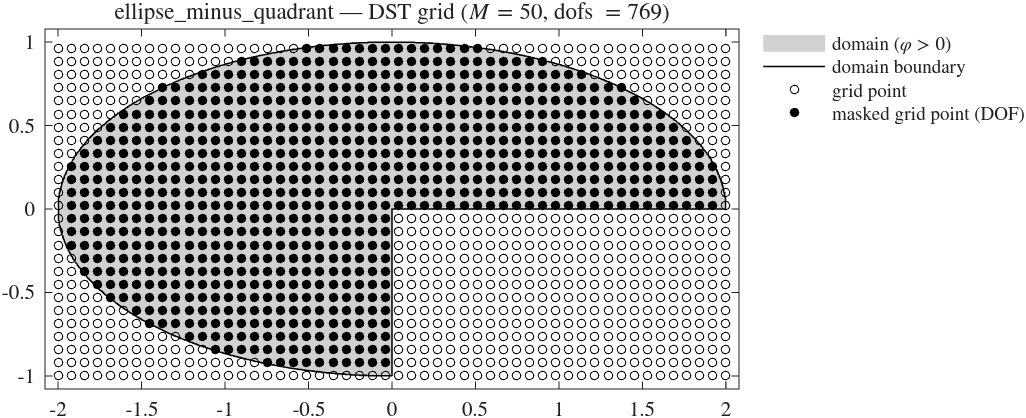
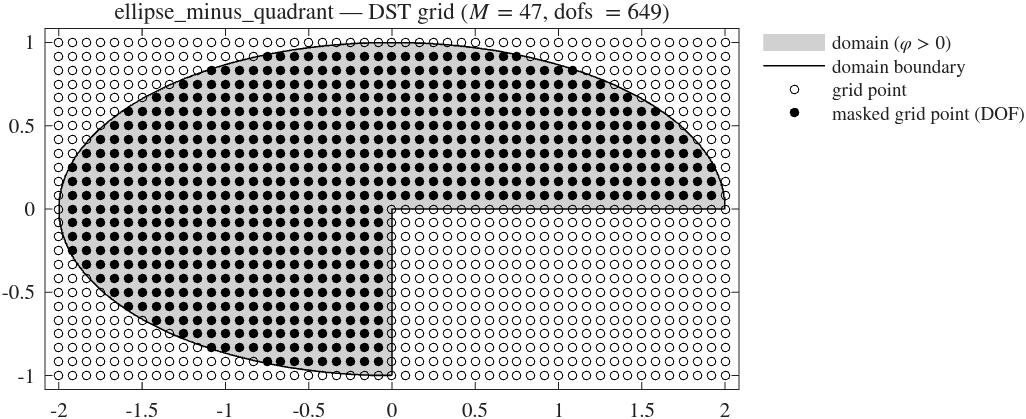
Fix ellipse-minus-quadrant grid alignment (M_full=47, M_partial=199)
The previous M (50/200) left the re-entrant cut edges off the grid: x=0 needs
M+1 even and y=0 needs M+1 divisible by 4. Use M_full=47, M_partial=199 (both
M+1 divisible by 4) so the x=0 and y=0 cuts fall on grid lines, and note the
condition in the catalog. Regenerate the grid figure and refresh the
comparison table from the recomputed DST spectra.

diff --git a/experiments/domain_catalog_dst.m b/experiments/domain_catalog_dst.m
@@ -29,7 +29,7 @@ function cases = domain_catalog_dst(name)
     cases(end+1) = make_case('isosceles_triangle',     [0 pi 0 pi],   @(x, y) indicator_isosceles_triangle(x, y, 0, pi, 0),          50, 200);
     cases(end+1) = make_case('small_rectangle',        [0 pi 0 pi], @(x, y) indicator_rectangle(x, y, 0, pi/2, 0, pi/4),           47, 199);  % M+1 multiple of 4: edges pi/2, pi/4 on grid
     cases(end+1) = make_case('L_shaped',               [-1 1 -1 1], @(x, y) indicator_L_shaped(x, y, -1, 0, 1, -1, 0, 1),          49, 299);  % M+1 even: re-entrant corner at origin on grid
-    cases(end+1) = make_case('ellipse_minus_quadrant', [-2 2 -1 1], @(x, y) indicator_ellipse_minus_quadrant(x, y, -2, 0, 2, 0),   50, 200);
+    cases(end+1) = make_case('ellipse_minus_quadrant', [-2 2 -1 1], @(x, y) indicator_ellipse_minus_quadrant(x, y, -2, 0, 2, 0),   47, 199);  % M+1 divisible by 4: x=0 and y=0 cut edges on grid
     cases(end+1) = make_case('H',                      [-1 2 -2 1], @(x, y) indicator_H(x, y),                                     50, 200);
     cases(end+1) = make_case('gww1',                   [-3 3 -3 3], @(x, y) indicator_gww1(x, y, -3, -1, 1, 3, -1, 1),             50, 200);  % isospectral with gww2
     cases(end+1) = make_case('gww2',                   [-3 3 -3 3], @(x, y) indicator_gww2(x, y, -3, -1, 1, 3, -1, 1, 3),          50, 200);  % isospectral with gww1

diff --git a/results/eigenvalues_head/ellipse_minus_quadrant_comparison.md b/results/eigenvalues_head/ellipse_minus_quadrant_comparison.md
@@ -7,16 +7,16 @@ computation time (`tic`/`toc` around each per-domain solve; Wolfram is not timed
 
 | n | DST full | DST partial | FD | FEM eig | FEM solvepdeeig | Wolfram |
 |---|---|---|---|---|---|---|
-| **DOFs** | 769 | 11866 | 769 | 2143 | 6435 § | — ‡ |
-| **Time (s)** | 0.12 | 6.66 | 0.03 | 0.61 | 0.46 | — |
-| 1 | 5.40554 | 5.76317 | 5.38900 | 5.87254 | 5.87067 | 5.87631 |
-| 2 | 10.19953 | 11.28754 | 10.14887 | 11.53448 | 11.53023 | 11.54380 |
-| 3 | 13.91571 | 14.88577 | 13.83892 | 15.14225 | 15.14113 | 15.14708 |
-| 4 | 14.65422 | 15.64818 | 14.56923 | 15.92427 | 15.92400 | 15.92704 |
-| 5 | 19.24541 | 20.77876 | 19.11228 | 21.12184 | 21.11966 | 21.13200 |
-| 6 | 25.01768 | 26.66692 | 24.80676 | 27.08210 | 27.08082 | 27.09676 |
-| 7 | 25.70583 | 27.07592 | 25.43114 | 27.50782 | 27.50173 | 27.53449 |
-| 8 | 27.64967 | 29.38017 | 27.33256 | 29.92590 | 29.91975 | 29.95455 |
+| **DOFs** | 649 | 11686 | 769 | 2143 | 6435 § | — ‡ |
+| **Time (s)** | 0.35 | 6.27 | 0.03 | 0.61 | 0.46 | — |
+| 1 | 5.66750 | 5.80665 | 5.38900 | 5.87254 | 5.87067 | 5.87631 |
+| 2 | 11.20836 | 11.41222 | 10.14887 | 11.53448 | 11.53023 | 11.54380 |
+| 3 | 14.63226 | 14.99032 | 13.83892 | 15.14225 | 15.14113 | 15.14708 |
+| 4 | 15.13343 | 15.70957 | 14.56923 | 15.92427 | 15.92400 | 15.92704 |
+| 5 | 20.46896 | 20.90935 | 19.11228 | 21.12184 | 21.11966 | 21.13200 |
+| 6 | 26.19190 | 26.79546 | 24.80676 | 27.08210 | 27.08082 | 27.09676 |
+| 7 | 26.80042 | 27.28047 | 25.43114 | 27.50782 | 27.50173 | 27.53449 |
+| 8 | 28.46907 | 29.51387 | 27.33256 | 29.92590 | 29.91975 | 29.95455 |
 
 **‡  Wolfram** `NDEigensystem` builds its own internal adaptive mesh, so its DOF count is not exposed. **§  FEM solvepdeeig** reports the number of mesh nodes, not the (constrained) degrees of freedom — unlike FEM eig, which records `size(K,1)`.
 
